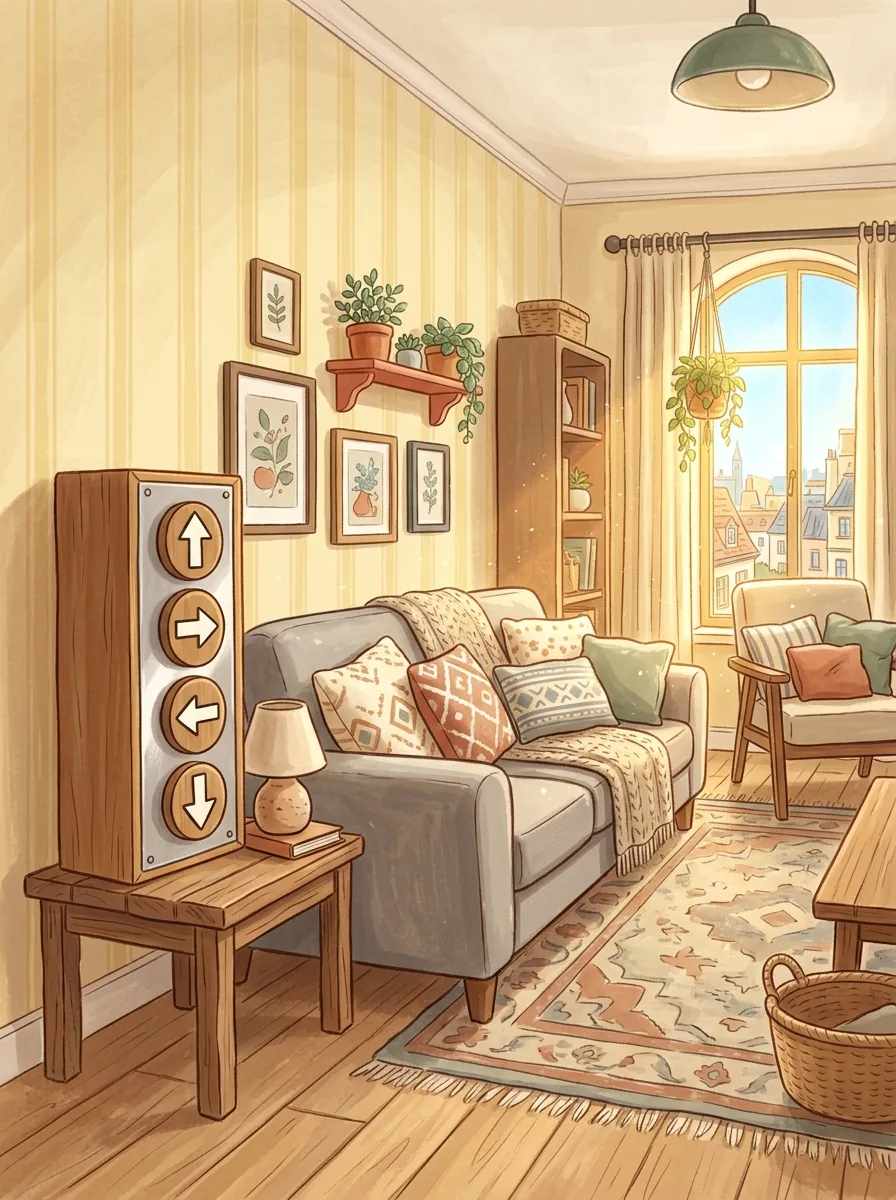
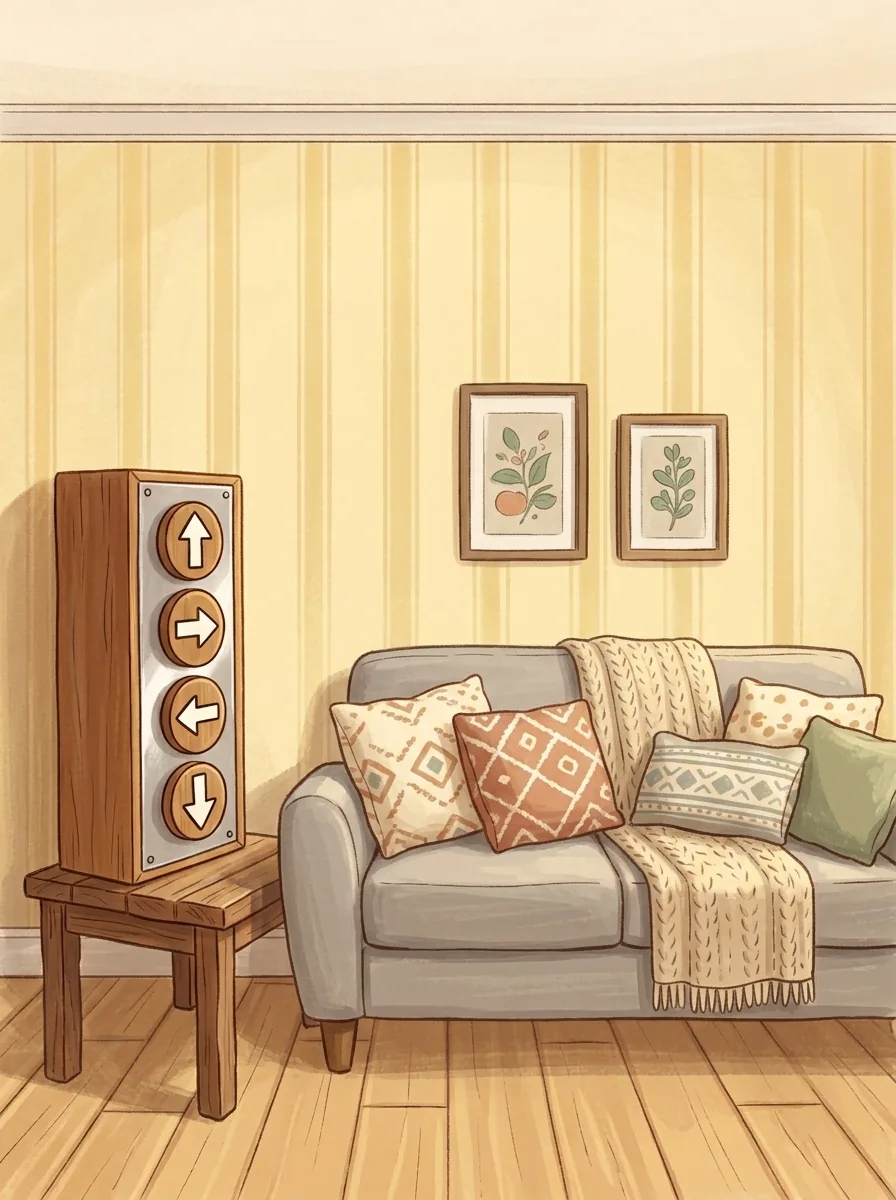
Sync: nieuwe west woonkamer, kistje open, speelgoed oost met en zonder sleutel; CACHE v34
Claude-Session: https://claude.ai/code/session_015zqp9KNWr9KzFawEScAPEr

diff --git a/sw.js b/sw.js
@@ -1,7 +1,7 @@
 /* Service worker: cache-first app shell, precache of every story file, network-first index.html.
  * To ship a new version: bump CACHE below (escaperoom-v1 -> escaperoom-v2). Old caches are deleted on activate.
  * All paths are relative to this file, so it works under a sub-path (GitHub Pages). */
-const CACHE = 'escaperoom-v33';
+const CACHE = 'escaperoom-v34';
 
 const SHELL = [
   './',
